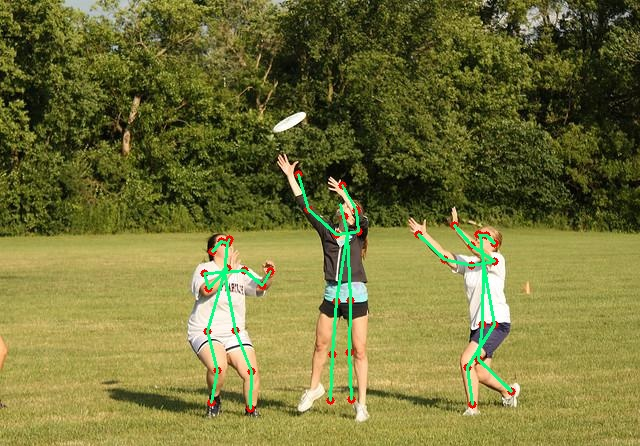
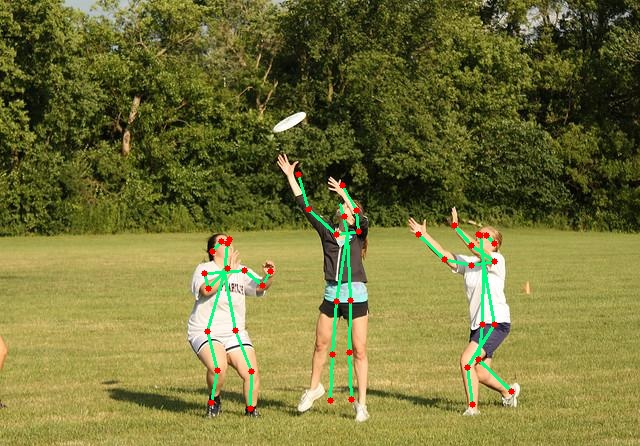
优化pose可视化细节.

diff --git a/common/common.cpp b/common/common.cpp
@@ -103,11 +103,7 @@ void draw_segment(cv::Mat& bgr, cv::Mat mask, const unsigned char* color) {
 }
 
 void draw_pose(cv::Mat& bgr, std::vector<cv::Point3f> key_points){
-    for(auto& kp: key_points){
-        if(kp.z > 0.5){
-            cv::circle(bgr, cv::Point(kp.x,kp.y), 4, cv::Scalar(0, 0, 255), -1); // 红色实心圆
-        }
-    }
+
     cv::Point neck((key_points[5].x + key_points[6].x)/2.0, (key_points[5].y + key_points[6].y)/2.0);
 
     if(key_points[0].z > 0.5 && key_points[1].z > 0.5){
@@ -165,6 +161,12 @@ void draw_pose(cv::Mat& bgr, std::vector<cv::Point3f> key_points){
     }
     if(key_points[14].z > 0.5 && key_points[16].z > 0.5){
         cv::line(bgr, cv::Point(key_points[14].x, key_points[14].y), cv::Point(key_points[16].x, key_points[16].y), cv::Scalar(127,255,0), 2);
+    }
+
+    for(auto& kp: key_points){
+        if(kp.z > 0.5){
+            cv::circle(bgr, cv::Point(kp.x,kp.y), 3, cv::Scalar(0, 0, 255), -1); // 红色实心圆
+        }
     }
 }
 

diff --git a/yolov8-pose/yolov8_pose_ncnn.cpp b/yolov8-pose/yolov8_pose_ncnn.cpp
@@ -599,7 +599,7 @@ void draw_objects(cv::Mat& bgr, const std::vector<Object>& objects, int mode) {
 
 
 void test_yolov8_pose_ncnn() {
-    std::string image_file("/Users/yang/CLionProjects/test_ncnn2/data/bus.jpeg");
+    std::string image_file("/Users/yang/CLionProjects/test_ncnn2/data/coco128_625.jpg");
     std::string param_file("/Users/yang/CLionProjects/test_ncnn2/yolov8-pose/yolov8n-pose.ncnn.param");
     std::string bin_file("/Users/yang/CLionProjects/test_ncnn2/yolov8-pose/yolov8n-pose.ncnn.bin");
 
@@ -629,7 +629,7 @@ void test_yolov8_pose_ncnn() {
 
 //    cv::imshow("a", image);
 //    cv::waitKey(0);
-    cv::imwrite("../data/bus-pose.jpeg", image);
+    cv::imwrite("../data/coco128_625-pose.jpg", image);
 
 
 

diff --git a/main.cpp b/main.cpp
@@ -2,13 +2,14 @@
 
 //#include "yolov5-seg/yolov5_seg_ncnn.cpp"
 //#include "yolov8-seg/yolov8_seg_ncnn.cpp"
-//#include "yolov8-pose/yolov8_pose_ncnn.cpp"
-#include "yolov8/yolov8_ncnn.cpp"
+#include "yolov8-pose/yolov8_pose_ncnn.cpp"
+//#include "yolov8/yolov8_ncnn.cpp"
 
 int main() {
 //    test_yolov5_seg_ncnn();
 //    test_yolov8_seg_ncnn();
-    test_yolov8_ncnn();
+    test_yolov8_pose_ncnn();
+//    test_yolov8_ncnn();
 
     return 0;
 }
